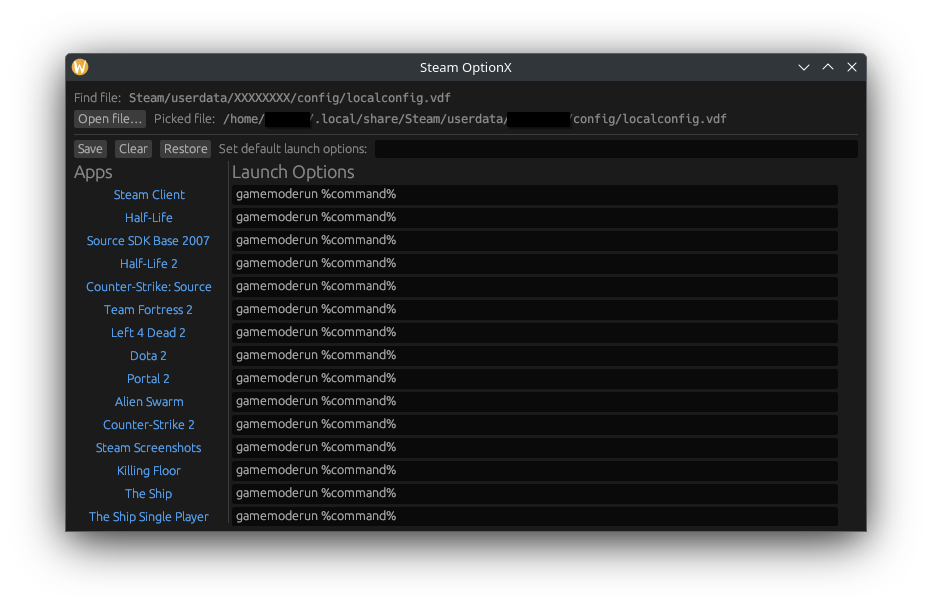
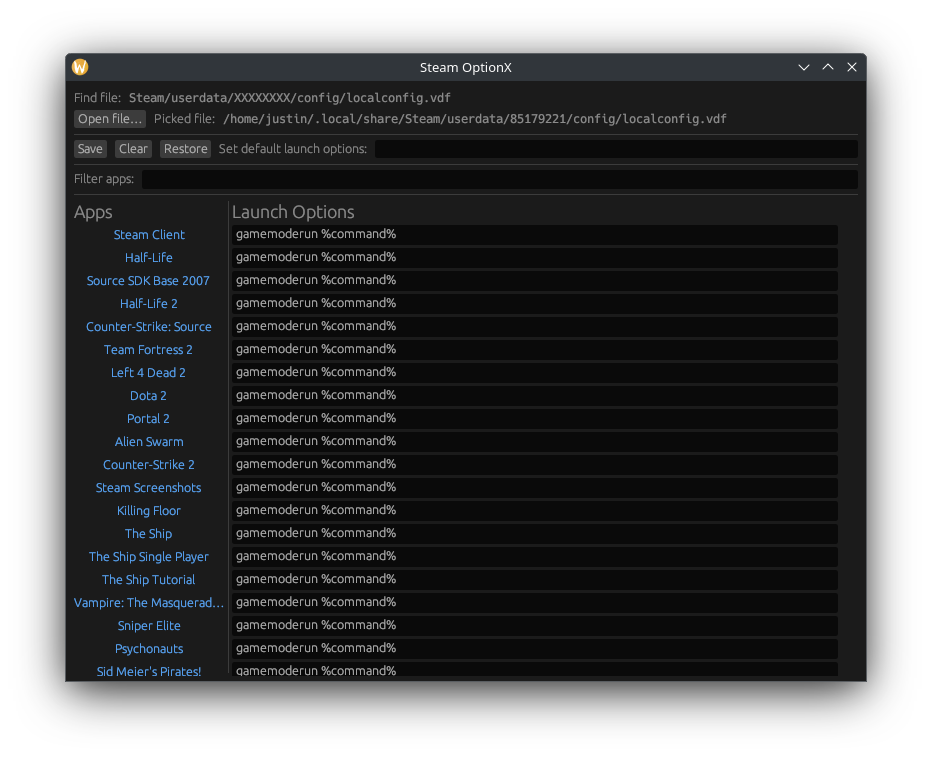
Cleanup and error handling

Changed region(s): [[0.0622, 0.0624, 0.9335, 0.936]]

diff --git a/src/main.rs b/src/main.rs
@@ -37,7 +37,7 @@ struct EguiApp {
 fn main() -> eframe::Result {
     let config: Config = confy::load(CONFIG_NAME, None).unwrap_or_default();
     let picked_path = config.steam_config;
-    let app_names = api::app_names().expect("Error getting Steam apps");
+    let app_names = api::app_names().expect("Error getting Steam apps from Steam API");
     let mut apps = None;
     if let Some(path) = &picked_path {
         backup_file(path, ".orig");
@@ -68,20 +68,17 @@ fn backup_file(picked_path: &String, ext: &str) {
                 _ = fs::copy(PathBuf::from(picked_path), backup_path)
             }
         }
-        ".bak" => _ = fs::copy(PathBuf::from(picked_path), backup_path),
-        _ => panic!(),
+        _ => _ = fs::copy(PathBuf::from(picked_path), backup_path),
     }
 }
 
-fn get_userdata_path() -> PathBuf {
+fn get_userdata_dir() -> PathBuf {
     if cfg!(windows) {
         PathBuf::from(r"C:\Program Files (x86)\Steam\userdata")
+    } else if let Some(home_dir) = BaseDirs::new() {
+        home_dir.data_dir().to_path_buf().join("Steam/userdata")
     } else {
-        BaseDirs::new()
-            .unwrap()
-            .data_dir()
-            .to_path_buf()
-            .join("Steam/userdata")
+        PathBuf::new()
     }
 }
 
@@ -123,7 +120,7 @@ impl eframe::App for EguiApp {
                 if ui.button("Open file…").clicked() {
                     if let Some(path) = rfd::FileDialog::new()
                         .add_filter("text", &["vdf"])
-                        .set_directory(get_userdata_path())
+                        .set_directory(get_userdata_dir())
                         .pick_file()
                     {
                         self.picked_path = Some(path.display().to_string());
@@ -185,6 +182,8 @@ impl eframe::App for EguiApp {
                     );
                 });
 
+                ui.separator();
+
                 ui.horizontal_wrapped(|ui| {
                     ui.label("Filter apps:");
                     ui.add_sized(
@@ -192,6 +191,8 @@ impl eframe::App for EguiApp {
                         egui::TextEdit::singleline(&mut self.filter_apps),
                     );
                 });
+
+                ui.separator();
 
                 TableBuilder::new(ui)
                     .resizable(true)
@@ -209,7 +210,7 @@ impl eframe::App for EguiApp {
                         body.row(0.0, |mut row| {
                             row.col(|ui| {
                                 if let Some(apps) = &self.apps {
-                                    for (appid, properties) in apps.keys().zip(apps.values()) {
+                                    for (appid, properties) in apps.iter() {
                                         if is_filtered(&self.filter_apps, &properties.name) {
                                             ui.style_mut().wrap_mode =
                                                 Some(egui::TextWrapMode::Truncate);
@@ -228,7 +229,7 @@ impl eframe::App for EguiApp {
                             });
                             row.col(|ui| {
                                 if let Some(apps) = &self.apps {
-                                    for (appid, properties) in apps.keys().zip(apps.values()) {
+                                    for (appid, properties) in apps.iter() {
                                         let mut current_launch_options =
                                             properties.launch_options.clone();
                                         match self.all_launch_options.get(&appid) {
